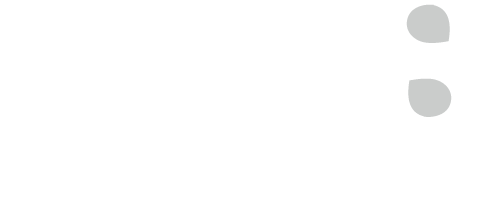
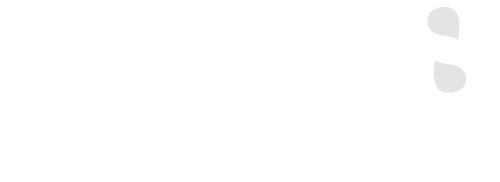
version 4.1 ready changes client 25/05

Changed region(s): [[0.8282, 0.3297, 0.9509, 0.6044], [0.8282, 0.0, 0.9202, 0.2198]]

diff --git a/src/views/BrazilExpo/SecHistory/index.vue b/src/views/BrazilExpo/SecHistory/index.vue
@@ -245,7 +245,7 @@
               <div class="zCol">
                 <TheFigure>
                   <img
-                    src="@/assets/images/h2020.png"
+                    src="@/assets/images/brasil-01z.jpg"
                     :alt="$t('BrazilExpo.titlecall')"
                   />
                 </TheFigure>
@@ -254,11 +254,11 @@
                 <div class="secHistory__content">
                   <h2
                     class="secHistory__title zTitleSmallBold"
-                    v-html="$t('history.title2020')"
+                    v-html="$t('history.title2021')"
                   ></h2>
                   <div
                     class="secHistory__title"
-                    v-html="$t('history.content2020')"
+                    v-html="$t('history.content2021')"
                   ></div>
                 </div>
               </div>

diff --git a/src/views/Home/index.vue b/src/views/Home/index.vue
@@ -38,6 +38,15 @@ export default {
     secContactUs
   },
   methods: {
+    toggleBodyClass(addRemoveClass, className) {
+      const el = document.body;
+
+      if (addRemoveClass === "addClass") {
+        el.classList.add(className);
+      } else {
+        el.classList.remove(className);
+      }
+    },
     hideLogoInHome() {
       const brand = document.querySelector(".theNavigation__brand__image");
       TweenMax.set(brand, {
@@ -47,6 +56,10 @@ export default {
   },
   mounted() {
     this.hideLogoInHome();
+    this.toggleBodyClass("addClass", "home");
+  },
+  destroyed() {
+    this.toggleBodyClass("removeClass", "home");
   }
 };
 </script>

diff --git a/src/components/ThePopUp/styles/index.sass b/src/components/ThePopUp/styles/index.sass
@@ -1,6 +1,7 @@
 .thePopUp
   width: 100%
   height: 100%
+  display: none
   position: fixed
   top: 0
   left: 0
@@ -12,6 +13,7 @@
   &__container
     width: 100%
     height: 100%
+    padding: 1rem
     display: flex
     justify-content: center
     align-items: center
@@ -49,3 +51,10 @@
     a
       font-weight: bold
       color: $color2
+
+.home
+  .thePopUp
+    display: block
+
+    &__hide
+      display: none

diff --git a/src/templates/TheFooter/index.vue b/src/templates/TheFooter/index.vue
@@ -91,6 +91,10 @@
         </div>
       </div>
     </div>
+    <span class="theCountdown__days" style="display: none"></span>
+    <span class="theCountdown__hours" style="display: none"></span>
+    <span class="theCountdown__minutes" style="display: none"></span>
+    <span class="theCountdown__seconds" style="display: none"></span>
   </footer>
 </template>
 

diff --git a/src/components/TheCountDown/index.vue b/src/components/TheCountDown/index.vue
@@ -83,7 +83,6 @@ export default {
           // If the count down is finished, write some text
           if (distance < 0) {
             clearInterval(x);
-            console.log("contagem finalizada");
           }
         }, 1000);
       }
